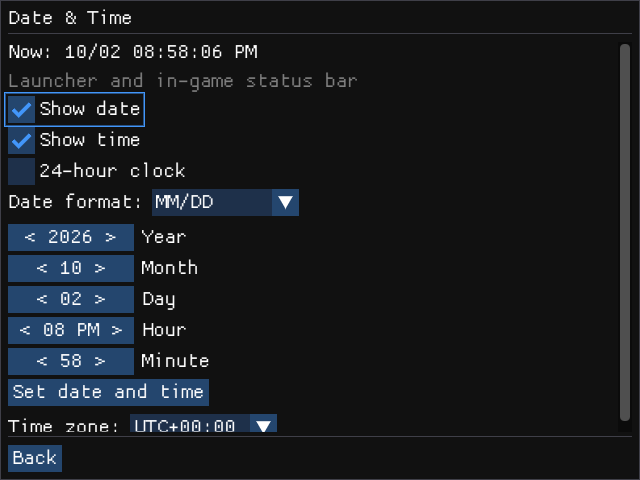
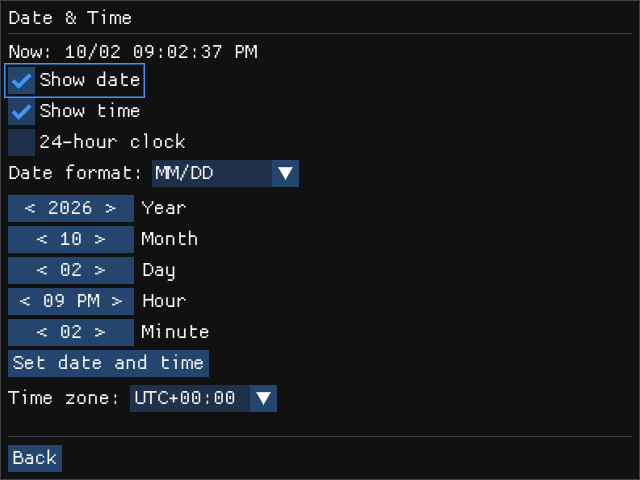
Date & Time fits the screen without the subtitle

Changed region(s): [[0.0, 0.0938, 0.5625, 0.9062], [0.9688, 0.0938, 1.0, 0.875]]

diff --git a/rootfs/package/system-settings/system-settings.cpp b/rootfs/package/system-settings/system-settings.cpp
@@ -1113,8 +1113,6 @@ int main(int argc, char* argv[]) {
                 strftime(now_text, sizeof(now_text), fmt.c_str(), &tm);
                 ImGui::Text("%s %s", tr("Now:"), now_text);
             }
-            ImGui::Spacing();
-            ImGui::TextDisabled("%s", tr("Launcher and in-game status bar"));
             bool shown_changed = ImGui::Checkbox(tr("Show date"), &hud.date);
             ImGui::SetItemDefaultFocus();
             shown_changed |= ImGui::Checkbox(tr("Show time"), &hud.time);
